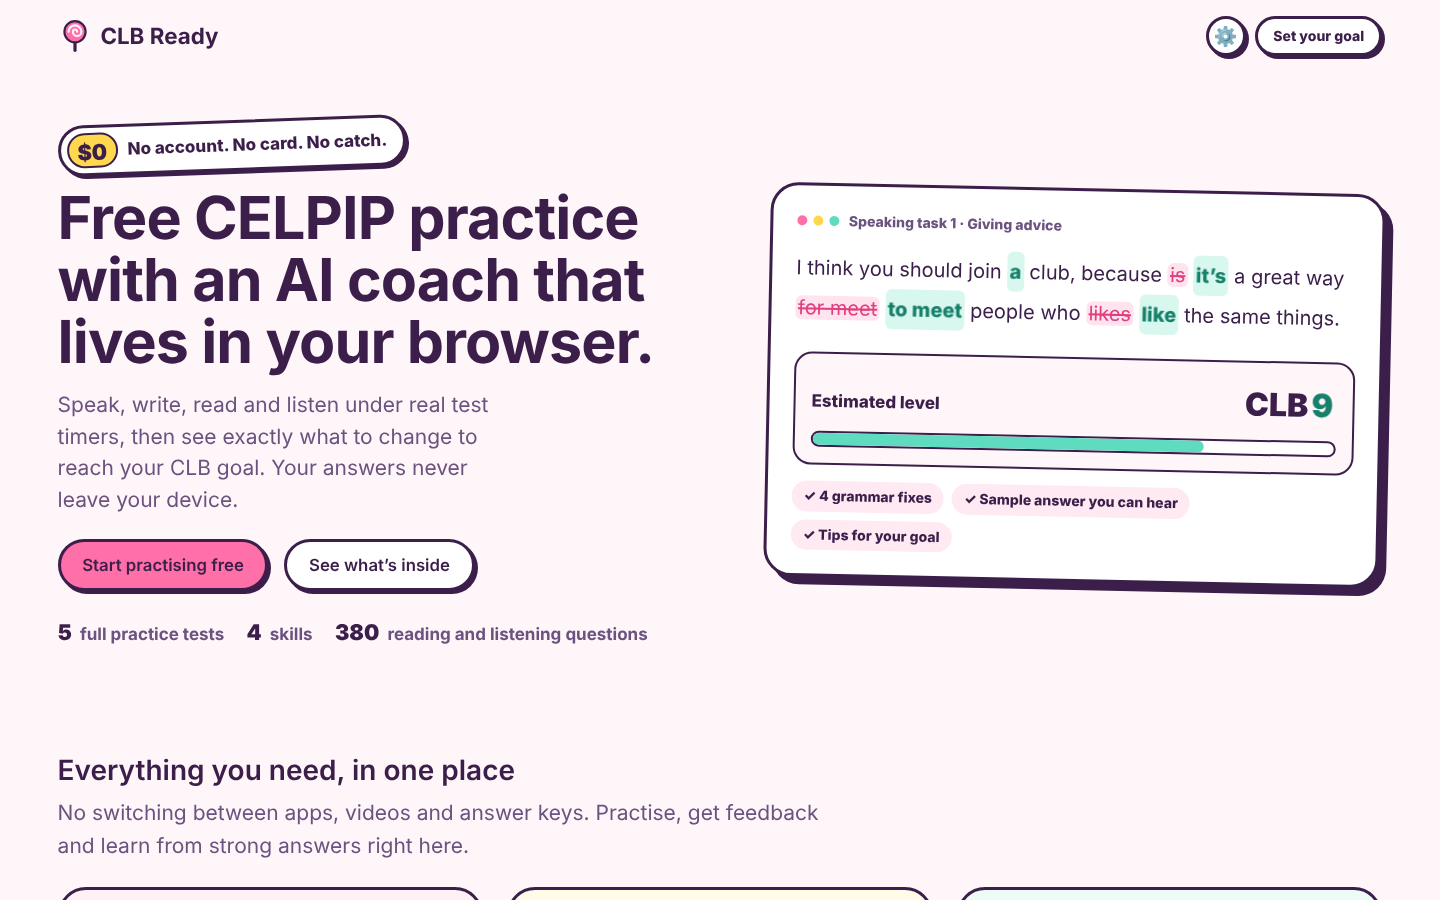
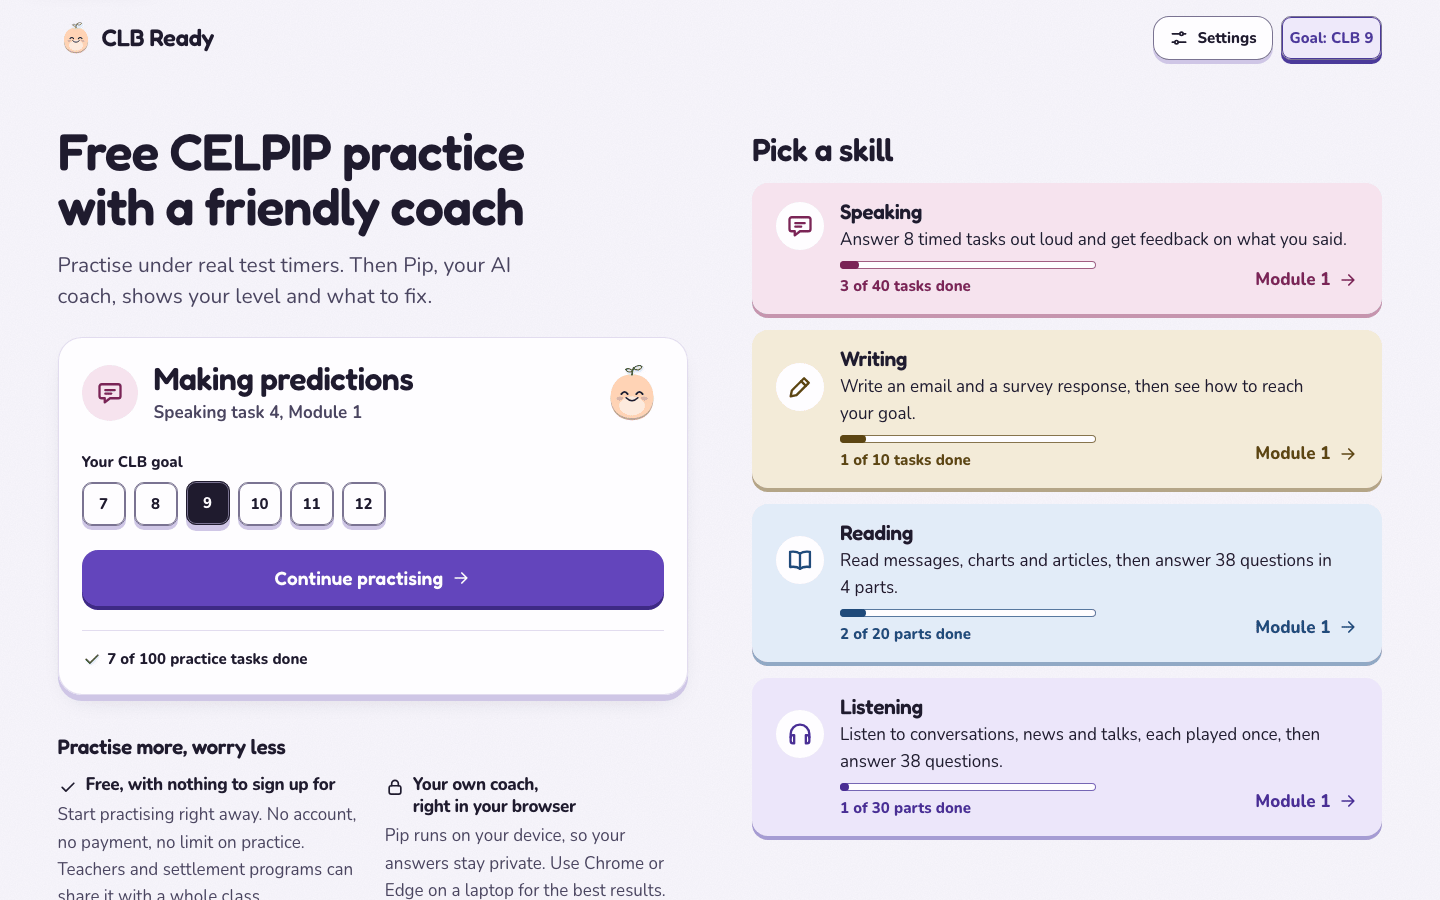
Update the README and screenshots for the new design

diff --git a/README.md b/README.md
@@ -2,82 +2,205 @@
 
 **Free CELPIP practice with Pip, an AI coach that runs in your browser.**
 
-Practise all four CELPIP skills under real test timers. Then see your estimated CLB level and what to change to
-reach your goal. There is no account and no payment, and your answers never leave your device.
+CLB Ready is for adults preparing for the CELPIP test for Canadian immigration or citizenship. You practise
+all four skills under real test timers. Then Pip, your AI coach, checks that you answered the task and shows
+your estimated CLB level next to your goal, with what to change to reach it. There is no account and no
+payment, and nothing you say or write leaves your device.
 
 **Try it:** [clbready.vercel.app](https://clbready.vercel.app) · also on
 [GitHub Pages](https://jasleenminhas578.github.io/CLB_Ready/). Chrome or Edge on a laptop works best.
 
-![CLB Ready home page](docs/screenshots/01-home.png)
+![CLB Ready home page: start your next task, pick a CLB goal, and see progress for each skill](docs/screenshots/01-home.png)
 
-> CLB Ready is an independent practice tool. It is not affiliated with or endorsed by CELPIP or Paragon Testing
-> Enterprises. CELPIP is a trademark of Paragon Testing Enterprises. Scores are estimates for practice only.
+## 🎯 Why learners use it
 
-## What's inside
+- 📈 **See your estimated CLB level for every answer**, next to the goal you picked (CLB 7 to 12). Speaking and
+  writing get a score for each of the four CELPIP criteria; reading and listening use CELPIP's approximate
+  score chart.
+- 🤖 **Know exactly what to fix.** Pip checks that your answer is on task, ticks off the task checklist and
+  gives up to three short tips. Then it rewrites your answer at your goal level, with every change marked.
+- ⏱ **Practise under test-day conditions**: 5 practice tests with 40 speaking tasks, 10 writing tasks and
+  380 reading and listening questions, each with test-style timers.
+- 🗣 **Learn from strong answers.** 40 sample answers at CLB 10+, sized to the speaking time, which you can
+  read or hear aloud. Every reading and listening question has an explanation that quotes the line that
+  proves it.
+- 🧭 **Pick up where you left off.** One click starts your next unfinished task, and each skill shows how
+  many tasks you have done.
+- 🆓 **Practise as much as you like.** No account, no payment, no limit, and your answers stay on your device.
 
-- **5 full practice tests**, each with 8 speaking tasks, 2 writing tasks, 4 reading parts and 6 listening parts.
-- **Speaking with a coach.** Your answer is transcribed, measured (pace, pauses, fillers, word variety) and
-  rewritten at your goal level, with every change marked.
-- **40 sample answers at CLB 10+**, sized to the speaking time, with notes on why they work and a button to
-  hear them read aloud.
-- **Writing feedback** in a test-style editor with a live word count, grammar marks,
-  scores per criterion and an improved version.
-- **380 reading and listening questions**, each with an explanation that quotes the line that proves it.
-  Listening plays once, like test day, then shows the full transcript.
-- **Goal-based feedback** for CLB 7 to 12, and ticks for finished tasks (saved only in your browser).
+## 🧭 How it works
 
-## Screenshots
+```mermaid
+flowchart LR
+  A[Home: pick a goal] --> B[Task with test timers]
+  B -->|speaking| C[Speech to text]
+  B -->|writing| D
+  C --> D[Pip scores the answer]
+  D --> E[Results: level, tips, checklist]
+  E --> F[Better version of your answer]
+  F --> G[Next task]
+  G --> B
+```
 
-| Speaking: test-style screen | Speaking: feedback at your goal level |
-| --- | --- |
-| ![Speaking task](docs/screenshots/02-speaking-task.png) | ![Speaking feedback](docs/screenshots/03-speaking-feedback.png) |
-| **Writing: exam editor with word count** | **Writing: corrections and scores** |
-| ![Writing task](docs/screenshots/04-writing-task.png) | ![Writing feedback](docs/screenshots/05-writing-feedback.png) |
-| **Reading: passage, chart and blanks** | **Reading: every answer explained** |
-| ![Reading task](docs/screenshots/06-reading-task.png) | ![Reading results](docs/screenshots/07-reading-results.png) |
-| **Listening: questions after one play** | **Sample answers you can hear** |
-| ![Listening task](docs/screenshots/08-listening-task.png) | ![Sample answer](docs/screenshots/03b-sample-answer.png) |
-| **Progress ticks on every task** | **Works on phones too** |
-| ![Task list](docs/screenshots/09-task-list.png) | <img src="docs/screenshots/10-phone.png" alt="Home page on a phone" width="260"> |
+### 1⃣ Pick a goal and start
 
-## Why it's free and private
+Choose the CLB level you need on the start card. Start opens your next unfinished task. You can change the
+goal at any time; without one, feedback aims at CLB 9.
 
-Most AI apps send your voice to a server and pay for every request. CLB Ready downloads small open AI
-models into your browser once, then runs everything on your own computer:
+![The start card with the CLB goal picker](docs/screenshots/02-goal-picker.png)
+
+### 2⃣ Answer under test timers
+
+Each task looks and runs like test day. In speaking, the preparation and recording timers run one after
+another. A soft beep marks when each timer starts and ends, and the beeps are kept out of your recording.
+You can turn them off with the Timer sounds setting.
+
+![A speaking task before it starts, showing the preparation and recording times](docs/screenshots/03-speaking-task.png)
+
+![A speaking task while recording](docs/screenshots/04-speaking-recording.png)
+
+### 3⃣ Pip checks your answer
+
+Your recording is turned into text on your device, and Pip reads it. The first time, Pip has to download,
+which can take a few minutes. A panel shows which step Pip is on and how far the download has got.
+
+![Pip checking the answer, with the step and download progress](docs/screenshots/05-pip-checking.png)
+
+### 4⃣ See your level and what to fix
+
+Feedback comes in two steps. First: your estimated level beside your goal, a score for each criterion, up to
+three tips and the task checklist. No level shows until Pip has checked your answer, and an answer to some
+other question can't earn a good level.
+
+![Speaking results: estimated level beside the goal, scores, tips and checklist](docs/screenshots/06-speaking-results.png)
+
+### 5⃣ Read a better version of your answer
+
+Second: Pip rewrites your answer at your goal level. Every word added, cut or replaced is marked, so you
+can see what moves an answer up a level.
+
+![Your answer rewritten at CLB 9, with changes marked](docs/screenshots/07-better-answer.png)
+
+### 6⃣ Go to the next task, or start again
+
+Results lead straight to the next task. A task is ticked as done only when you gave an answer. Each module
+and skill has a Reset progress button, and Settings can clear everything.
+
+![The speaking task list with done ticks, the next task and Reset progress](docs/screenshots/13-task-list.png)
+
+## 🗣 Speaking
+
+8 task types per practice test, from giving advice to describing an unusual situation, with the test's
+preparation and speaking times (30 or 60 seconds to prepare, 1:00 or 1:30 to speak). Your answer is
+transcribed and measured (pace, pauses, fillers, word variety), then scored and rewritten by Pip. Each task
+also has a sample answer at CLB 10+ with notes on why it works and a Listen button.
+
+![A sample answer at CLB 10+ with notes on why it works](docs/screenshots/15-sample-answer.png)
+
+## ✍ Writing
+
+An email and a survey response per practice test, in a test-style editor with a live word count against
+the 150 to 200 word target. Your writing draft stays in the tab until you submit it. Feedback marks possible
+grammar mistakes, scores each criterion, checks the task points and gives an improved version.
+
+![The writing editor with a live word count](docs/screenshots/08-writing-task.png)
+
+![Writing results: level, scores, tips and checklist](docs/screenshots/09-writing-results.png)
+
+## 📖 Reading
+
+4 parts per practice test: correspondence, applying a diagram, reading for information and reading for
+viewpoints. Fill blanks and answer questions on the clock. Results show your score, an estimated level and,
+for every answer, the line in the passage that proves it.
+
+![A reading part with a schedule, an email with blanks, and questions](docs/screenshots/10-reading-task.png)
+
+![Reading results with every answer explained](docs/screenshots/11-reading-results.png)
+
+## 🎧 Listening
+
+6 parts per practice test: problem solving, a daily life conversation, information, a news item, a
+discussion and viewpoints. Each recording plays once, like test day, and
+then the questions appear. Results explain every answer with a quote from the recording and show the full
+transcript.
+
+![A listening part after the recording has played](docs/screenshots/12-listening-task.png)
+
+![Listening results with each answer explained](docs/screenshots/17-listening-results.png)
+
+## 🔒 Private by design
+
+CLB Ready has no server of its own: the site is static files. It downloads small open AI models into your
+browser once, then runs everything on your own computer:
 
 | Part | Tool | Where it runs |
 | --- | --- | --- |
 | Speech to text | Whisper (`.en` models) via Transformers.js | Web Worker, WebGPU or CPU |
-| Feedback | Qwen2.5 / Llama 3.2, 4-bit, via WebLLM | Web Worker, WebGPU |
-| Listening voices | Kokoro 82M via kokoro-js | Web Worker, WebGPU or CPU |
+| Feedback (Pip) | Qwen2.5 / Llama 3.2, 4-bit, via WebLLM | Web Worker, WebGPU |
+| Listening voices and read-aloud | Kokoro 82M via kokoro-js | Web Worker, WebGPU or CPU |
 | Measurements and grammar checks | Plain TypeScript (pace, pauses, fillers, learner grammar rules) | Main thread |
 | Reading and listening marks | Answer key and CELPIP's approximate score chart | Main thread |
-| Storage | Model files are cached; answers are never saved | Browser |
+| Storage | Model files are cached; answers are never saved (a writing draft stays in the tab until you submit) | Browser |
 
-The app checks the device (memory, CPU cores, WebGPU support) without asking for permission and picks
-model sizes to match. Devices without WebGPU get light mode. Feedback comes in two steps, so scores
-appear in seconds and the improved answer streams in while you read them.
+```mermaid
+flowchart LR
+  subgraph Browser["Your browser"]
+    Page[Page: screens, timers, scoring rules]
+    W1[Whisper worker: speech to text]
+    W2[WebLLM worker: Pip]
+    W3[Kokoro worker: voices]
+    Cache[(Browser cache: model files)]
+    Page <--> W1
+    Page <--> W2
+    Page <--> W3
+    W1 --- Cache
+    W2 --- Cache
+    W3 --- Cache
+  end
+  Host[Static host: site files] -->|once| Page
+  Models[Model files, pinned commits] -->|first use| Cache
+```
 
-## For schools and settlement programs
+- **Nothing you say or write leaves your device.** Apart from the site's own files, the only downloads are
+  the models. There is no account, no analytics and no app server.
+- **Pinned models.** Every model is pinned to an exact commit (`src/services/modelPins.ts`), so a change
+  upstream can't swap what runs on your device.
+- **No third-party code at runtime.** The ONNX Runtime WebAssembly file and the fonts are served from the
+  site itself, not a CDN.
+- **A strict Content Security Policy.** The built page only loads scripts, styles, fonts and data from the
+  site itself.
 
-Share one link. There's nothing to install, no accounts to manage and no student data to protect,
-because none is collected.
+The app checks the device (memory, CPU cores, WebGPU support) without asking for permission and picks model
+sizes to match. Devices without WebGPU get light mode, where Pip is off: results show the measured scores
+(vocabulary and how clear your answer is) and say that a level needs Pip.
 
-## Run it locally
+![Light mode results: measured scores only, and a note that a level needs Pip](docs/screenshots/16-light-mode.png)
+
+## 🏫 For teachers and settlement programs
+
+Share one link. There's nothing to install, no accounts to manage and no student data to protect, because
+none is collected. Students get 5 full practice tests across all four skills, feedback aimed at the level
+they need, and a sample answer for every speaking task. Progress ticks are kept in each student's own
+browser, and it also works on phones.
+
+<img src="docs/screenshots/14-phone.png" alt="CLB Ready home page on a phone" width="260">
+
+## 💻 Run it locally
 
 You need Node.js 20 or newer.
 
 ```bash
 npm install
-npm run dev      # then open http://localhost:5173 in Chrome or Edge
-npm test         # unit tests
-npm run build    # production build in dist/
-npm run audio    # optional: pre-record listening audio (see below)
+npm run dev        # then open http://localhost:5173 in Chrome or Edge
+npm test           # unit tests
+npm run typecheck  # TypeScript check
+npm run build      # production build in dist/
+npm run audio      # optional: pre-record listening audio (see below)
 ```
 
-Every push to `main` runs the tests and publishes the site (GitHub Actions to GitHub Pages, and Vercel).
+Every push to `main` runs the tests and publishes the site to GitHub Pages (GitHub Actions).
 
-### Listening recordings (optional)
+## 🔊 Listening recordings
 
 By default, Kokoro makes the listening voices in the learner's browser, a line at a time while the
 recording plays. `npm run audio` can instead pre-record clips as MP3 files in `public/audio/`; the app
@@ -85,15 +208,17 @@ plays a recording when one exists. It needs internet the first time (about 330 M
 ffmpeg (`brew install ffmpeg` on a Mac). To skip onnxruntime-node's GPU (CUDA) download, install
 with `ONNXRUNTIME_NODE_INSTALL_CUDA=skip npm install`.
 
+## 🧪 Model lab
+
 Open `#/lab` (the "Model lab" link in the footer) to measure load time, transcription time, tokens per
 second and memory on your device.
 
-## Project structure
+## 🗂 Project structure
 
 ```
 src/
   app/          router, session state, route table
-  components/   shared UI (buttons, emoji, mascot, timer, layout)
+  components/   shared UI (buttons, icons, Pip, layout, disclaimer)
   domain/       skills, CLB goals, CELPIP criteria, task types, scoring rules
   content/      practice modules, prompts, passages, listening scripts (data only)
   services/     device detection, audio, AI engines behind interfaces, grammar, progress
@@ -102,14 +227,24 @@ src/
 tests/          unit tests for logic and content integrity
 ```
 
-### Adding things
+## ➕ Adding things
 
 - **A module:** copy `src/content/modules/module1.ts` (and its `module1Reading.ts` and
-  `module1Listening.ts`), write the new content, and list it in `src/content/modules/index.ts`.
+  `module1Listening.ts`), write the new content, and list it in both `src/content/modules/index.ts` and
+  `src/content/modules/catalog.ts`.
   The content tests check every part is complete, every blank has a question, answers are spread out
   and sample answers fit the speaking time.
 - **A different AI engine:** implement `SpeechToText`, `FeedbackModel` or `TextToSpeech` from `services/`.
 
-## Licence
+## 🤝 Contributing
+
+Issues and pull requests are welcome. Before opening a pull request, run `npm test`, `npm run typecheck`
+and `npm run build`. Keep learner data on the device: don't add network calls apart from model downloads.
+Write learner-facing text in plain English, in short sentences.
+
+## 📄 Licence
 
 MIT. See [LICENSE](LICENSE).
+
+> CLB Ready is an independent practice tool. It is not affiliated with or endorsed by CELPIP or Paragon Testing
+> Enterprises. CELPIP is a trademark of Paragon Testing Enterprises. Scores are estimates for practice only.
